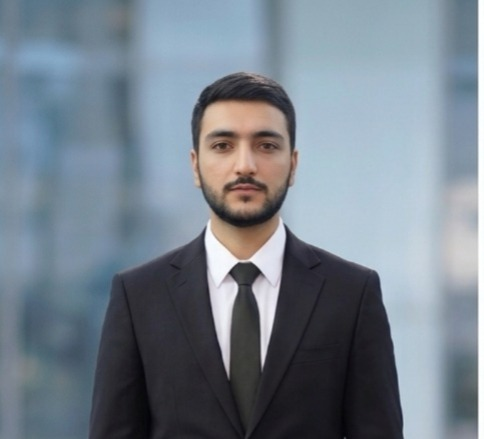
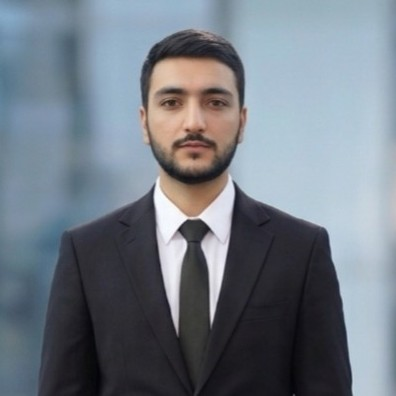
pic changes

diff --git a/src/Components/Navbar/Navbar.jsx b/src/Components/Navbar/Navbar.jsx
@@ -15,24 +15,47 @@ function Navbar() {
 
           {/* Menu */}
           <ul className="flex items-center gap-10 text-gray-700 font-medium">
-            <li className="cursor-pointer hover:text-blue-600 transition duration-300">
-              Home
-            </li>
-            <li className="cursor-pointer hover:text-blue-600 transition duration-300">
-              About
-            </li>
-            <li className="cursor-pointer hover:text-blue-600 transition duration-300">
-              Skills
-            </li>
-            <li className="cursor-pointer hover:text-blue-600 transition duration-300">
-              Certificates
-            </li>
-            <li className="cursor-pointer hover:text-blue-600 transition duration-300">
-              Projects
-            </li>
-            <li className="cursor-pointer hover:text-blue-600 transition duration-300">
-              Contact
-            </li>
+                <li>
+  <a
+    href="#home"
+    className="cursor-pointer hover:text-blue-600 transition duration-300"
+  >
+    Home
+  </a>
+</li>
+         <li>
+  <a
+    href="#about"
+    className="cursor-pointer hover:text-blue-600 transition duration-300"
+  >
+    About
+  </a>
+</li>
+                <li>
+  <a
+    href="#skills"
+    className="cursor-pointer hover:text-blue-600 transition duration-300"
+  >
+    Skills
+  </a>
+</li>
+         
+               <li>
+  <a
+    href="#projects"
+    className="cursor-pointer hover:text-blue-600 transition duration-300"
+  >
+    Projects
+  </a>
+</li>
+              <li>
+  <a
+    href="#contact"
+    className="cursor-pointer hover:text-blue-600 transition duration-300"
+  >
+    Contact
+  </a>
+</li>
           </ul>
         </div>
       </nav>

diff --git a/src/App.jsx b/src/App.jsx
@@ -13,10 +13,26 @@ function App() {
 
       <Navbar />
       <Hero/>
-      <About />
+
+
+      <section id="about">
+  <About />
+</section>
+
+   <section id="skills">
       <Skills/>
-      <Projects/>
-      <Form/>
+      </section>
+
+       <section id="projects"> 
+        <Projects/>
+       </section>
+     
+
+
+    <section id="contact">
+  <Form />
+</section>
+
       <Footer/>
     </div>
   )

diff --git a/src/Components/Footer/Footer.jsx b/src/Components/Footer/Footer.jsx
@@ -81,7 +81,7 @@ function Footer() {
     href="#"
     className="text-gray-500 hover:text-gray-900 transition"
   >
-    <FaGithub size={30} />
+    <FaGithub size={22} />
   </a>
 
 </div>

diff --git a/src/index.css b/src/index.css
@@ -1,1 +1,5 @@
 @import "tailwindcss";
+
+html {
+  scroll-behavior: smooth;
+}
